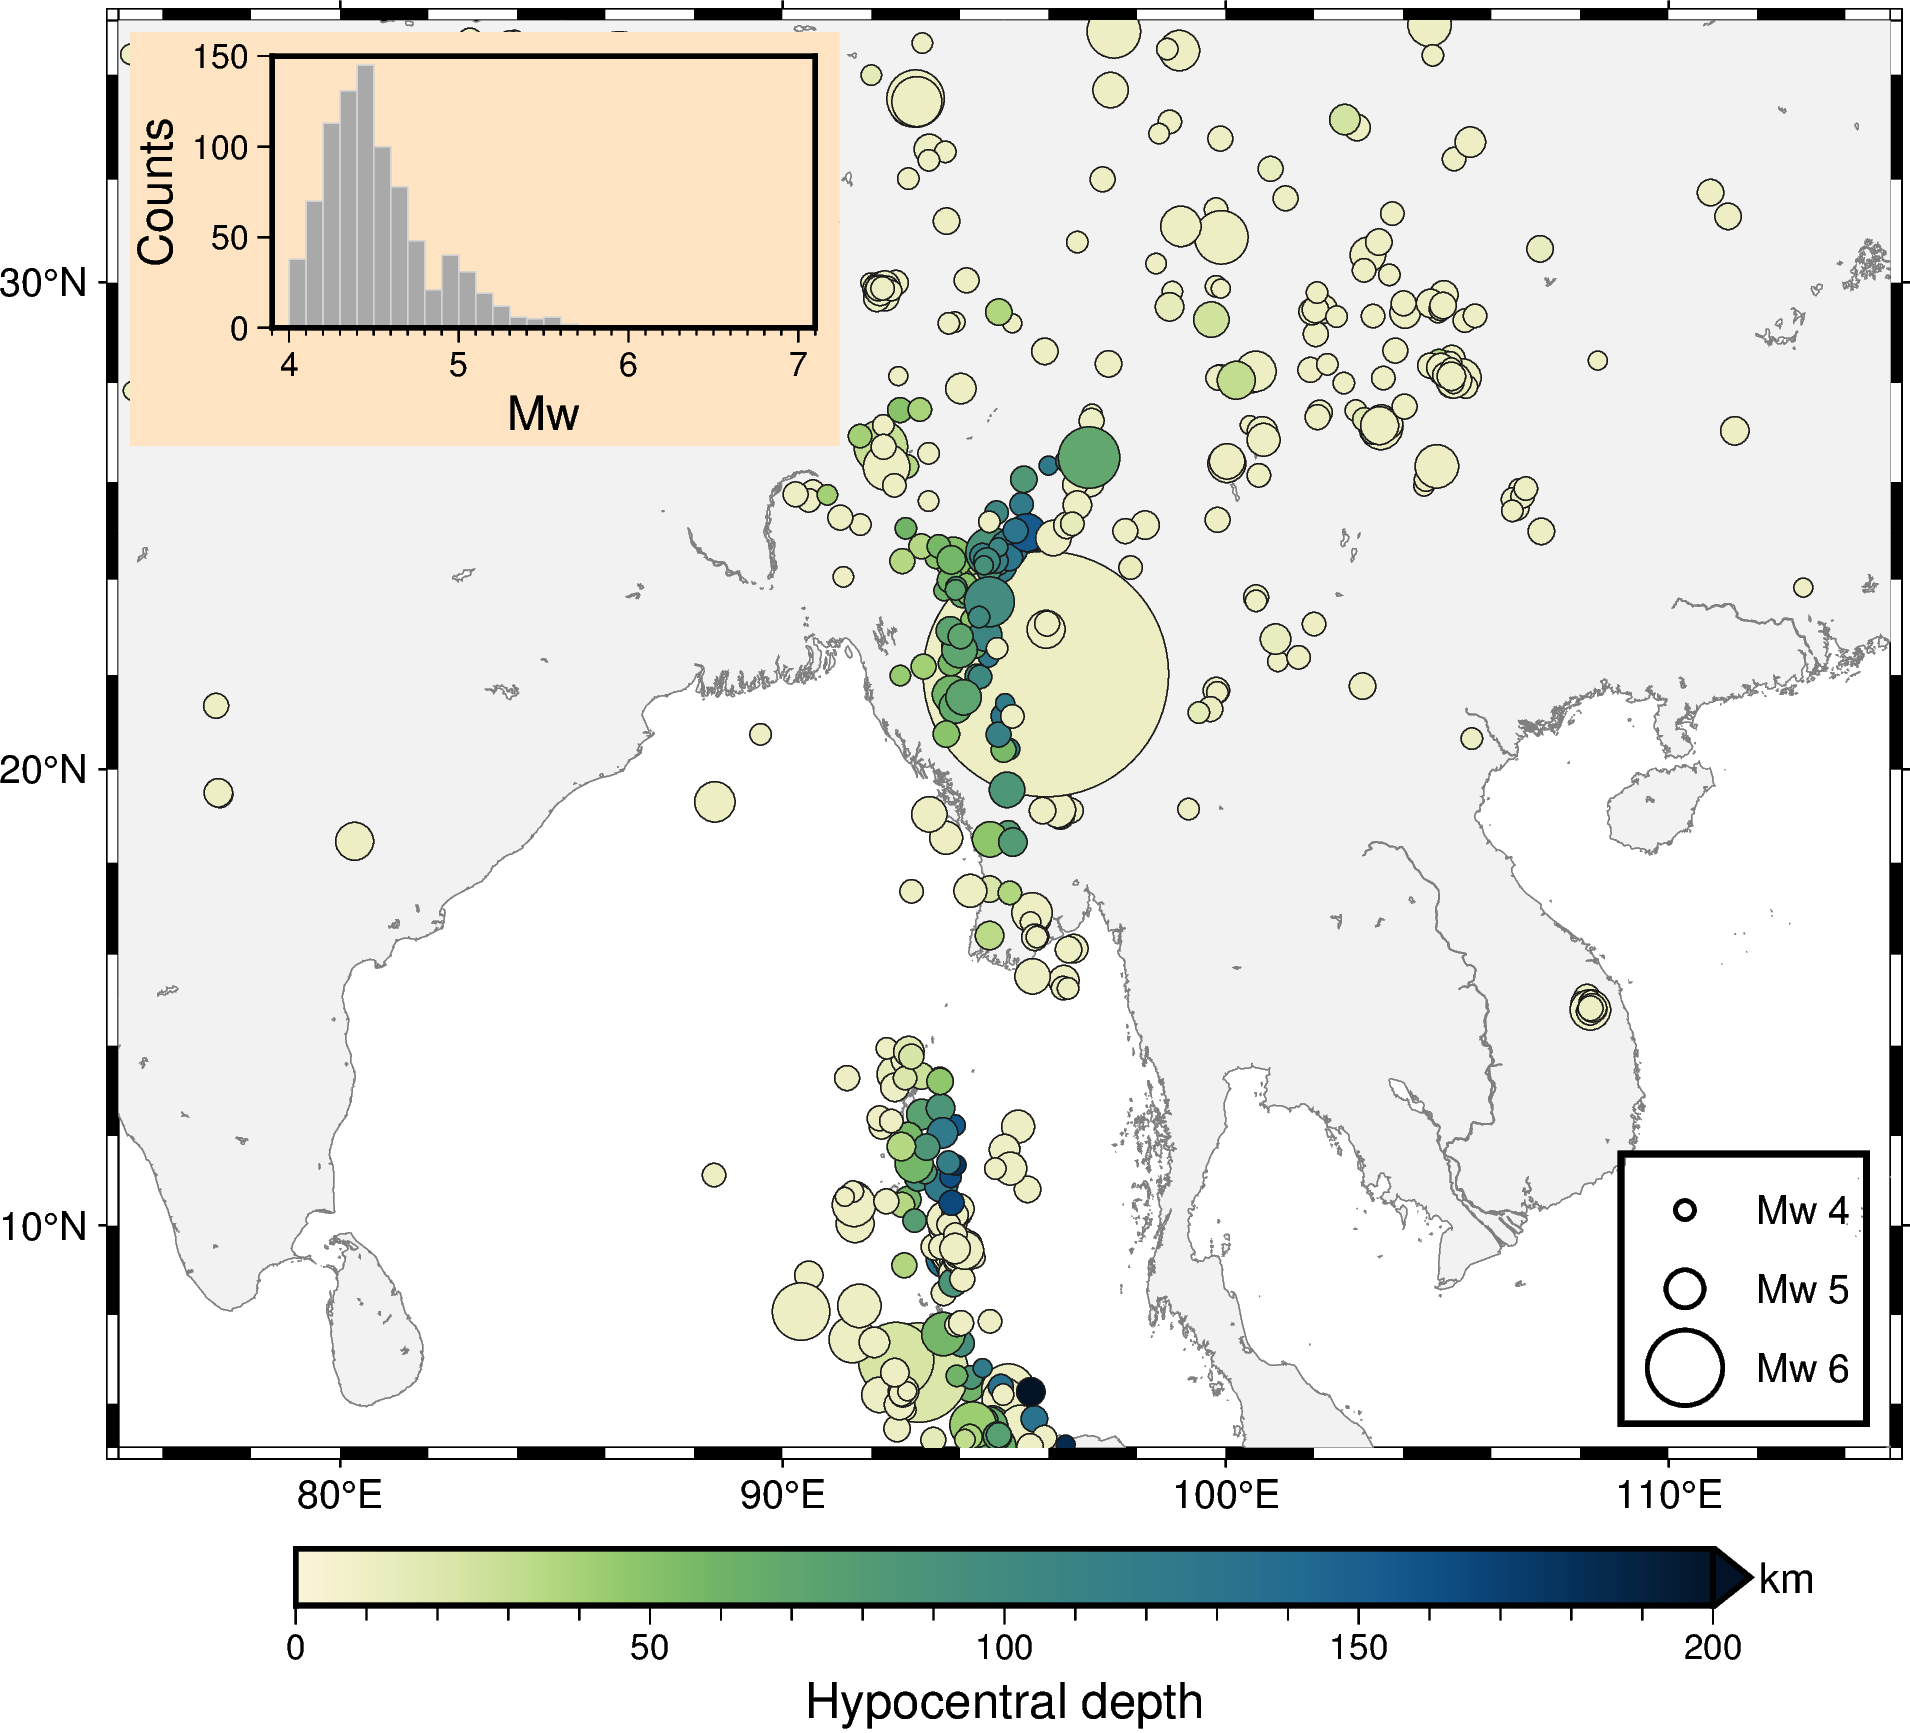
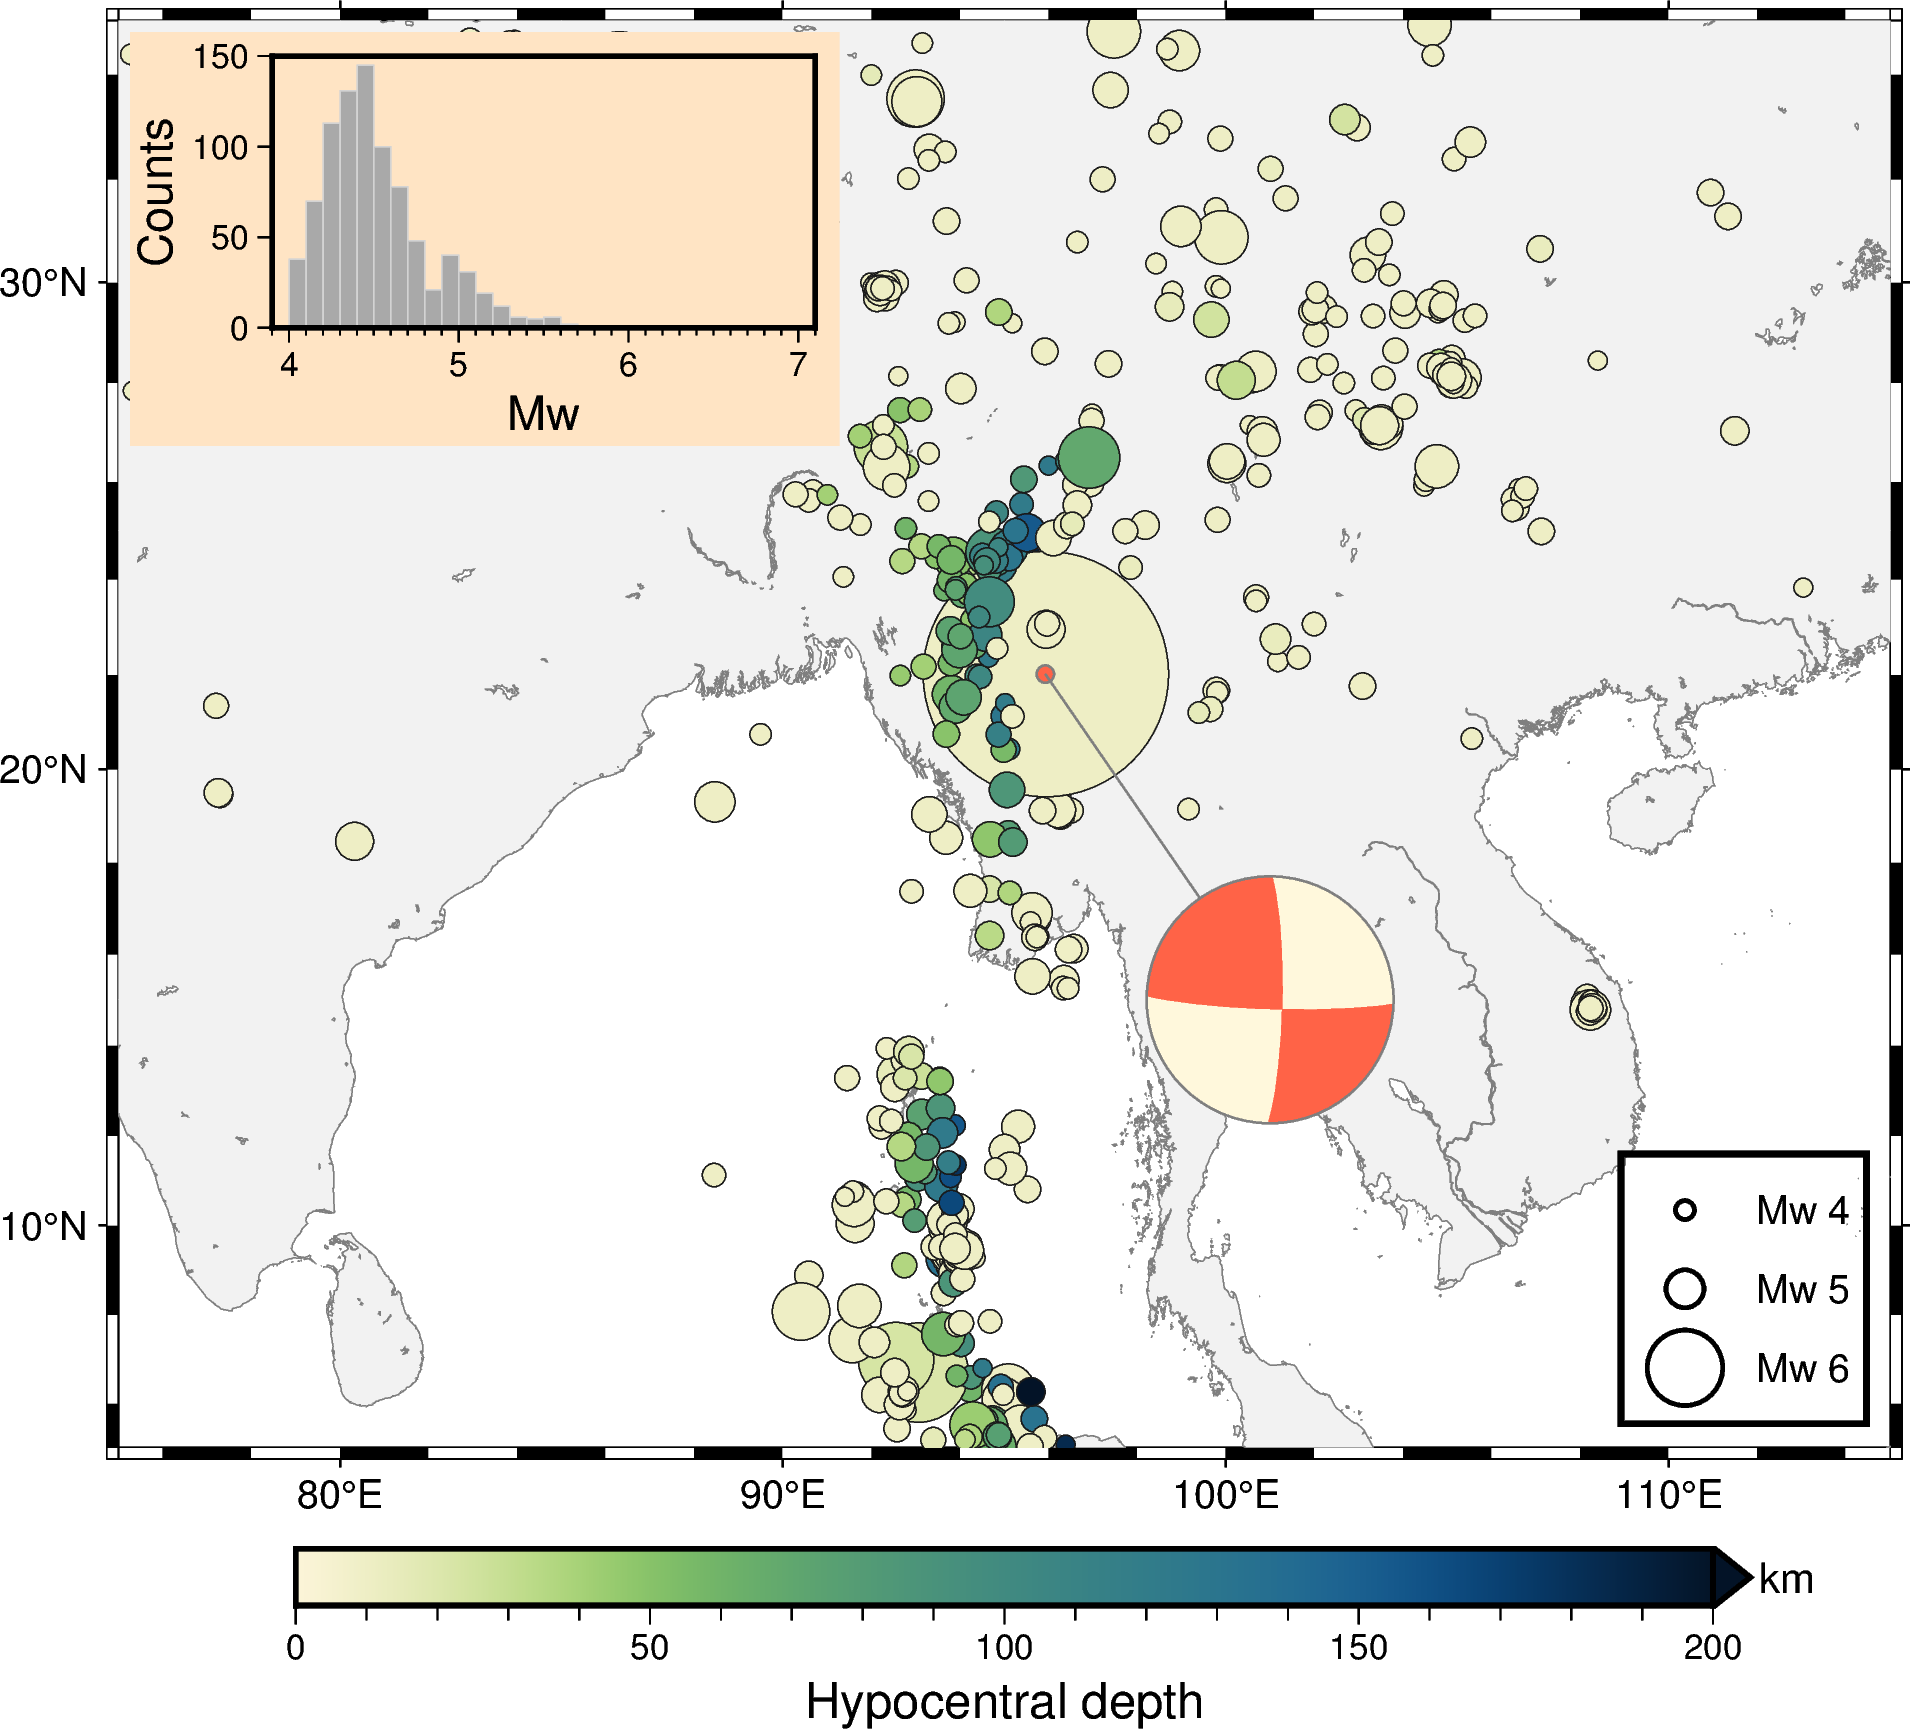
Add beachball for myanmar earthquake

Changed region(s): [[0.5869, 0.4986, 0.7414, 0.6544], [0.5251, 0.3739, 0.556, 0.4051]]

diff --git a/Fig4_PyGMt_pandas.py b/Fig4_PyGMt_pandas.py
@@ -119,6 +119,25 @@ legend = io.StringIO(
 )
 fig.legend(spec=legend, position="jBR+o0.2c+l2", box=True)
 
+# Myanmar earthquake on 2025/03/28
+# See also https://agupubs.onlinelibrary.wiley.com/doi/full/10.1029/2010GL046099
+#          (https://doi.org/10.1029/2010GL046099)
+#          (last access: 2025/03/28)
+dict_fm = {"strike": 1, "dip": 82, "rake": 174, "magnitude": 9.1}
+fig.meca(
+    spec=dict_fm,
+    scale="1.15c",
+    longitude=95.922,
+    latitude=22.013,
+    depth=10,
+    compressionfill="tomato",
+    extensionfill="cornsilk",
+    pen="0.5p,gray50,solid",
+    offset="+s0.15c",
+    plot_longitude=101,
+    plot_latitude=15,
+)
+
 with fig.inset(
     position="jTL+w6c/3.5c+o0.1c",
     margin=(1.2, 0.2, 1, 0.2),
